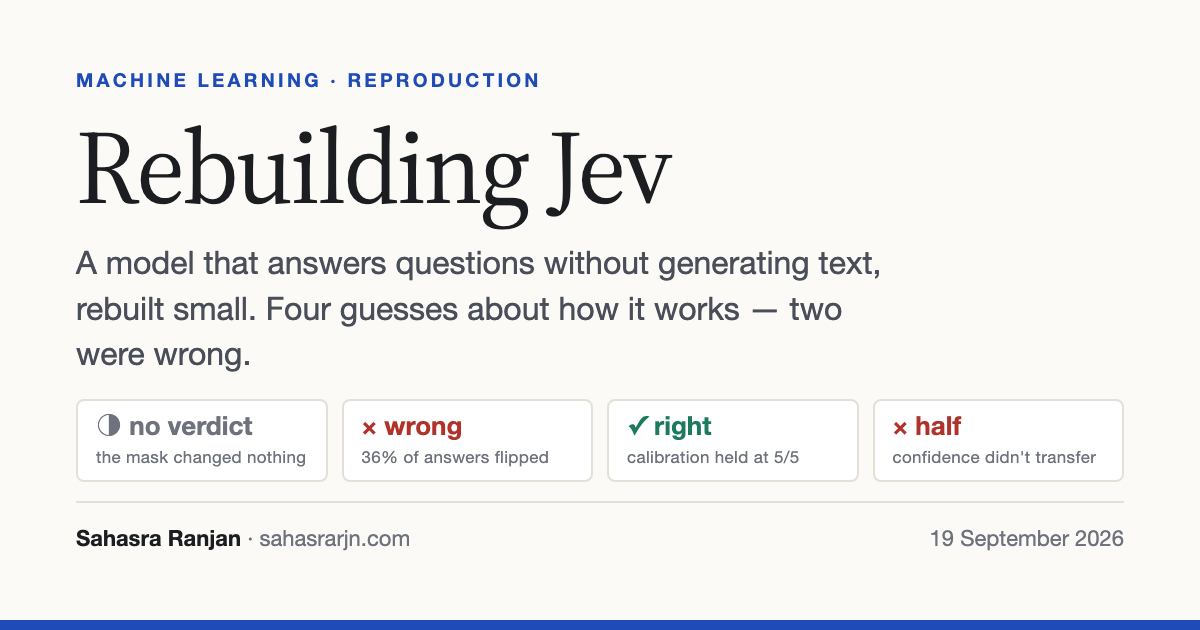
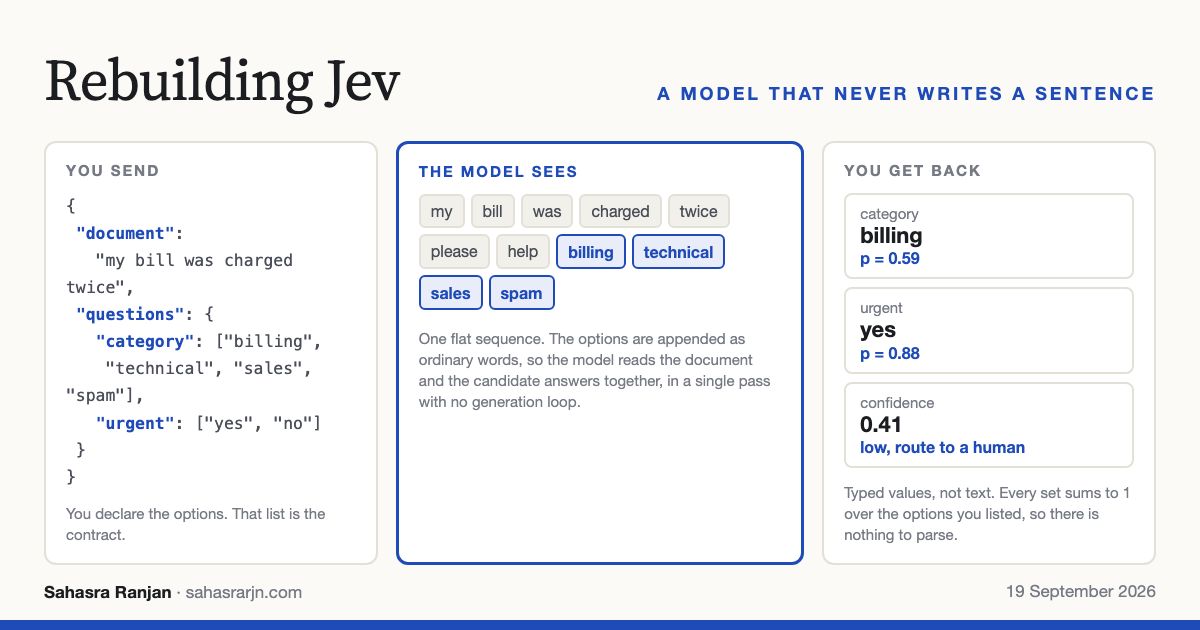
blog: drop the mask experiment, rebuild the social card
Removes the "Four guesses" scorecard and the attention-mask section. The
mask result was inconclusive for a reason that was about my task rather
than about masks, so it spent a section and a figure explaining why an
experiment did not work. The three remaining findings stand on their own and
the second half reads as results rather than as a post-mortem.

Cleans up everything that referred to them: the standfirst, both meta
descriptions, the keywords, the decision tree's mask branch and the closing
paragraphs.

Rebuilds og.png as a landscape version of the input/output figure. The
figure itself is 3:2, and link previews crop to roughly 1.91:1, which would
have sliced off the top and bottom. Laying the three stages side by side
fits 1200x630 natively and stays readable at thumbnail size.

diff --git a/blog/rebuilding-jev/index.html b/blog/rebuilding-jev/index.html
@@ -4,15 +4,15 @@
 <meta charset="utf-8">
 <meta name="viewport" content="width=device-width, initial-scale=1">
 <title>Rebuilding Jev &middot; Sahasra Ranjan</title>
-<meta name="description" content="TypeSafe shipped Jev without a paper. I rebuilt a 206K-parameter version and made four guesses about how it works. Two were wrong: the attention mask changed nothing, and reordering the answer options flipped 36% of answers.">
-<meta name="keywords" content="Jev, TypeSafe AI, System One model, calibration, attention mask, classifier, machine learning, reproduction">
+<meta name="description" content="What TypeSafe's Jev is, what its makers do and do not tell you, and what happened when I built a small version: honest probabilities need honest targets, and flexible answer lists are shakier than they look.">
+<meta name="keywords" content="Jev, TypeSafe AI, System One model, calibration, structured output, classifier, machine learning, reproduction">
 <meta name="author" content="Sahasra Ranjan">
 <link rel="icon" href="/favicon.ico">
 <link rel="canonical" href="https://www.sahasrarjn.com/blog/rebuilding-jev/">
 
 <meta property="og:type" content="article">
 <meta property="og:title" content="Rebuilding Jev">
-<meta property="og:description" content="A model that answers questions without generating text, rebuilt small. Four guesses about how it works; two were wrong.">
+<meta property="og:description" content="What Jev is, what TypeSafe do and do not publish, and what a small rebuild shows about whether the clever parts earn their place.">
 <meta property="og:image" content="https://www.sahasrarjn.com/blog/rebuilding-jev/og.png">
 <meta name="twitter:card" content="summary_large_image">
 
@@ -43,7 +43,7 @@
   <header>
     <div class="kicker">Machine learning &middot; Reproduction</div>
     <h1>Rebuilding Jev</h1>
-    <p class="standfirst">TypeSafe shipped a model that answers questions about text without generating any text. The first half of this is what Jev is and what its makers do and do not tell you. The second half is a small one I built to check whether the parts that sounded clever actually matter. Two of my four guesses were wrong.</p>
+    <p class="standfirst">TypeSafe shipped a model that answers questions about text without generating any text. The first half of this is what Jev is and what its makers do and do not tell you. The second half is a small one I built to find out whether the parts that sound clever actually earn their place.</p>
     <div class="byline"><span>Sahasra Ranjan</span>
     <span>~8 min read</span>
     <span>206K parameters, trained from scratch &middot; CPU only &middot; <a href="https://github.com/sahasrarjn/system-one">code</a></span></div>
@@ -191,49 +191,9 @@
 </section>
 
 <section>
-  <h2>Four guesses</h2>
+  <h2>What I found</h2>
 
-  <p><b>Did it work?</b> On the thing that matters most, yes. The model landed exactly on the best score the task allows, and its stated probabilities track reality closely. On flexible answer lists, only partly. And one of my four guesses turned out to be untestable on a task this simple.</p>
-
-  <div class="guesses">
-    <div>
-      <p class="v nul">&#9681; no verdict</p>
-      <h4>The special mask matters</h4>
-      <p>All three masks tied at the ceiling: <b>0.6870 / 0.6868 / 0.6870</b>. My task couldn&rsquo;t tell them apart.</p>
-    </div>
-    <div>
-      <p class="v no">&times; wrong</p>
-      <h4>Answer order doesn&rsquo;t matter</h4>
-      <p>Reordering the options changed <b>36%</b> of answers. Training fixes it only down to <b>12%</b>.</p>
-    </div>
-    <div>
-      <p class="v ok">&check; right</p>
-      <h4>Honest probabilities survive harder tasks</h4>
-      <p>Soft targets won at all <b>5</b> difficulty settings, by <b>2.5&ndash;3.4&times;</b> on calibration error.</p>
-    </div>
-    <div>
-      <p class="v no">&times; half wrong</p>
-      <h4>New answer lists work for free</h4>
-      <p>Right answer, wrong confidence. Error against truth triples: <b>0.09 &rarr; 0.28</b>.</p>
-    </div>
-  </div>
-</section>
-
-<section>
-  <h2>Why the mask test told me nothing</h2>
-
-  <p>Transformers control which words may look at which other words. I expected that choice to matter here: let the document look at itself in both directions but not forward at the options, and the document&rsquo;s work stops depending on what you asked, so you can reuse it across a dozen questions. That is the design I guessed Jev uses, though TypeSafe has confirmed nothing.</p>
-
-  <p>So I trained three models that differed only in which parts of the text could see which other parts. They scored identically.</p>
-
-  <p>The reason is in how the input is laid out. <b>The options sit at the end of the text.</b> So even under the most restrictive mask, where each word can only look backwards, the options are last, and looking backwards means looking at the whole document anyway.</p>
-
-  <figure>
-    <img src="/blog/rebuilding-jev/img/mask.png" alt="Three rows showing the same input under different masks. The options sit at the end, so even a backwards-only mask lets them see the whole document. Both masks score the same." width="900" loading="lazy">
-    <figcaption><b>A null result about my task, not about masks.</b> A task where word order matters would give a real answer; mine can&rsquo;t.</figcaption>
-  </figure>
-
-  <p>One thing did hold. The fully-open mask, where everything sees everything and the reuse trick becomes impossible, scored <b>+0.0002</b> better. So reusing the document&rsquo;s work costs nothing.</p>
+  <p>Three things, one good and two that would change how I built this for real.</p>
 </section>
 
 <section>
@@ -317,18 +277,15 @@ Do many questions share one long document?
 Do the answer options change between calls?
    <b>yes &rarr;</b> shuffle options in training, and measure the flip rate.
          Test calibration on unseen option sets separately.
-
-Do you need conclusions about masks that hold on real text?
-   <b>&rarr;</b> use a task where word order matters. Mine didn&rsquo;t.
   </div>
 </div>
 
 <section>
   <h2>What this doesn&rsquo;t show</h2>
 
-  <p>This is a 206,000-parameter model on invented data. It doesn&rsquo;t tell you how Jev is actually built. TypeSafe has confirmed nothing, and my mask inference could be wrong. The two failures are failures in <em>my</em> setup, and a bigger model on real text might behave differently.</p>
+  <p>This is a 206,000-parameter model on invented words. It does not tell you how Jev is actually built, because TypeSafe has confirmed nothing. What I measured is how this shape of model behaves on a task I made up, and a bigger one on real text may well behave differently.</p>
 
-  <p>What it does establish is narrower and still useful. Training on probabilities rather than labels reaches the best score the task allows and stays honest about its confidence, across every difficulty I tried. Answer lists that change between calls work for the answer and not for the confidence. And a clever attention mask, on a task like this one, buys nothing over the plain one.</p>
+  <p>What it does establish is narrower and still useful. Training on probabilities rather than labels reaches the best score the task allows and stays honest about its confidence, across every difficulty I tried. Answer lists that change between calls work for the answer and not for the confidence, which is the opposite of what makes the design attractive.</p>
 
   <p>Finding that out cost twenty cents.</p>
 

diff --git a/blog/rebuilding-jev/fig/og.html b/blog/rebuilding-jev/fig/og.html
@@ -1,0 +1,62 @@
+<!doctype html><meta charset="utf-8"><style>@import "_base.css";
+html,body{width:600px;height:315px;overflow:hidden}
+.card{width:600px;height:315px;padding:20px 22px 0;display:flex;flex-direction:column;
+      background:var(--paper);border-bottom:5px solid var(--accent)}
+.top{display:flex;justify-content:space-between;align-items:baseline;margin-bottom:11px}
+.t{font-family:"Source Serif 4",Georgia,serif;font-size:29px;font-weight:400;letter-spacing:-.015em;color:var(--ink)}
+.k{font-size:9px;letter-spacing:.16em;text-transform:uppercase;color:var(--accent);font-weight:700}
+.cols{display:flex;gap:9px;flex:1}
+.c{flex:1;background:var(--card);border:1px solid var(--rule);border-radius:6px;padding:9px 10px;
+   display:flex;flex-direction:column}
+.c.mid{border-color:var(--accent);border-width:1.5px;flex:1.25}
+.ch{font-size:7.5px;letter-spacing:.13em;text-transform:uppercase;color:var(--ink-3);font-weight:700;margin-bottom:7px}
+.c.mid .ch{color:var(--accent)}
+.c.mid .cap{margin-top:0}
+.px{font-family:ui-monospace,Menlo,monospace;font-size:8.2px;line-height:1.65;color:var(--ink-2)}
+.px .b{color:var(--accent);font-weight:700}
+.chips{display:flex;flex-wrap:wrap;gap:3px;margin-bottom:9px}
+.w{background:var(--soft);border:1px solid var(--rule);border-radius:3px;padding:3px 5px;font-size:8px;color:var(--ink-2)}
+.o{background:var(--accent-soft);border:1px solid var(--accent);border-radius:3px;padding:3px 5px;
+   font-size:8px;color:var(--accent);font-weight:700}
+.r{background:#fff;border:1px solid var(--rule);border-radius:4px;padding:5px 7px;margin-bottom:4px}
+.r .n{font-size:7.5px;color:var(--ink-3)}
+.r .v{font-size:11px;font-weight:700;color:var(--ink);line-height:1.2}
+.r .p{font-size:8px;color:var(--accent);font-weight:700}
+.cap{font-size:7.5px;color:var(--ink-3);margin-top:auto;line-height:1.4}
+.foot{display:flex;justify-content:space-between;font-size:8.5px;color:var(--ink-3);padding:8px 0 9px}
+.foot b{color:var(--ink)}
+</style>
+<div class="card">
+  <div class="top"><div class="t">Rebuilding Jev</div><div class="k">A model that never writes a sentence</div></div>
+  <div class="cols">
+    <div class="c">
+      <div class="ch">You send</div>
+      <div class="px">{<br>
+        &nbsp;<span class="b">"document"</span>:<br>
+        &nbsp;&nbsp;&nbsp;"my bill was charged twice",<br>
+        &nbsp;<span class="b">"questions"</span>: {<br>
+        &nbsp;&nbsp;&nbsp;<span class="b">"category"</span>: ["billing",<br>
+        &nbsp;&nbsp;&nbsp;&nbsp;"technical", "sales", "spam"],<br>
+        &nbsp;&nbsp;&nbsp;<span class="b">"urgent"</span>: ["yes", "no"]<br>
+        &nbsp;}<br>}</div>
+      <div class="cap">You declare the options. That list is the contract.</div>
+    </div>
+    <div class="c mid">
+      <div class="ch">The model sees</div>
+      <div class="chips">
+        <span class="w">my</span><span class="w">bill</span><span class="w">was</span><span class="w">charged</span>
+        <span class="w">twice</span><span class="w">please</span><span class="w">help</span>
+        <span class="o">billing</span><span class="o">technical</span><span class="o">sales</span><span class="o">spam</span>
+      </div>
+      <div class="cap">One flat sequence. The options are appended as ordinary words, so the model reads the document and the candidate answers together, in a single pass with no generation loop.</div>
+    </div>
+    <div class="c">
+      <div class="ch">You get back</div>
+      <div class="r"><div class="n">category</div><div class="v">billing</div><div class="p">p = 0.59</div></div>
+      <div class="r"><div class="n">urgent</div><div class="v">yes</div><div class="p">p = 0.88</div></div>
+      <div class="r"><div class="n">confidence</div><div class="v">0.41</div><div class="p">low, route to a human</div></div>
+      <div class="cap">Typed values, not text. Every set sums to 1 over the options you listed, so there is nothing to parse.</div>
+    </div>
+  </div>
+  <div class="foot"><span><b>Sahasra Ranjan</b> &middot; sahasrarjn.com</span><span>19 September 2026</span></div>
+</div>
